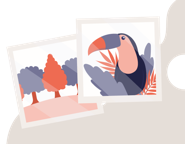
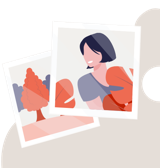
Homepage coupon: new WELCOME20 illustration, ticket to 168 tall
The new art ("Illustration 1 - Edit.svg") is 160x168 with the right notch
already cut out, and the design it ships with ("Discount.svg") draws the
ticket at 370x168 — 24 taller than the 144 the code had. Both follow the
design: TICKET.height 144 -> 168, artWidth 185 -> 160, which also gives the
title more room before it wraps.

Rasterised with headless Chrome at device-scale-factor 3 on a transparent
background, then downsampled with sips for 2x and 1x. Alpha preserved: the
card's beige shows through above the illustration's blob, and the notch
lines up with the ticket's cut-out.

diff --git a/src/components/coupon-carousel.tsx b/src/components/coupon-carousel.tsx
@@ -21,15 +21,16 @@ const CHECK_BADGE_ICON = `<svg width="24" height="24" viewBox="0 0 24 24" fill="
 /** Ticket-style coupon geometry (the homepage variant). */
 const TICKET = {
   gutter: 16, // 16 leading and trailing — edge to edge within the page gutter
-  height: 144,
+  height: 168, // per the Discount design (370x168)
   radius: 12, // top and bottom corners
   notch: 18, // side notches: a 36-tall semicircle cutting 18 inwards
   inset: 24, // content 24 from the left and right edges, clear of the notches
-  // Decorative illustration on the right, flush to the edge. It's 185x144 — the
+  // Decorative illustration on the right, flush to the edge. It's 160x168 — the
   // ticket's full height — with the right notch already cut out (transparent),
   // but its right-hand corners are square, so it's clipped to the ticket outline.
+  // Rasterised from "Illustration 1 - Edit.svg" at 1x/2x/3x.
   art: require('../../assets/images/coupon-ticket.png'),
-  artWidth: 185,
+  artWidth: 160,
 };
 
 /**
